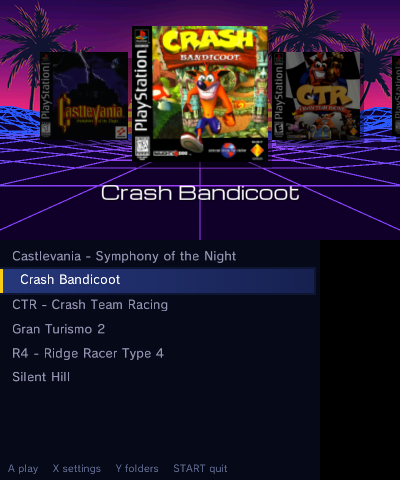
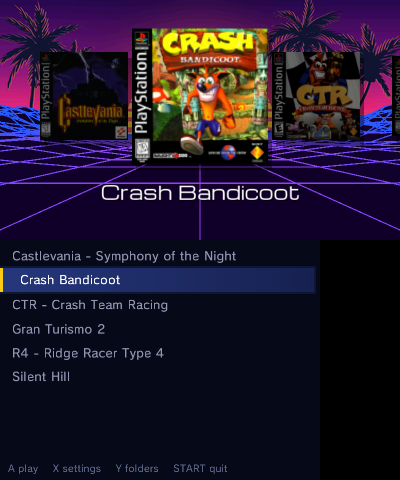
Record v0.4.0 candidate results and blocked console restore handoff

Changed region(s): [[0.0, 0.0312, 1.0, 0.4062], [0.0, 0.5312, 0.78, 0.6562]]

diff --git a/docs/v040-candidate.md b/docs/v040-candidate.md
@@ -1,0 +1,231 @@
+# v0.4.0 release candidate acceptance
+
+**Status: BLOCKED — offline and candidate checks pass; RC2 restoration failed on both consoles, so Old A2 and final installed-title verification are incomplete.** Nothing pushed,
+tagged or published. Worktree `/home/tony/.t3/worktrees/PS1_3ds/v040`, branch
+`release/v0.4.0-candidate`, based on combined2 `67c67d2` (frozen executable
+`047dded`). Evidence: `/home/tony/Development/PS1_3ds/devtools/v040/`.
+
+## Candidate contents
+
+The GPU-only combined2 base retains the scratchpad fast path, indirect lookup,
+NCLIP, G1 movie synchronization, shared alternating-buffer border fix and opt-in
+developer recorder. The rejected nearest-SPU experiment is removed from startup,
+remote parsing, status, metadata and interpolation override code. Normal Old
+simple/New gaussian interpolation defaults remain.
+
+Settings `31a21ee` and covers `5a9c580`, `ca90e78`, `fdc670f` plus report
+`d8188a6` are integrated. Merge conflicts preserve the recorder pause entry,
+clip-safe command gate and both cover/settings remote commands. Renderer and
+half-height Software rows are deleted. Legacy Software configuration stays
+ignored. No changes to `core/` versus combined2.
+
+Centering was checked before hiding its page: gpulib computes manual
+`screen.x/y` and `hres/vres`, while `pica_picture()` selects `src_x/src_y` and
+`screen.w/h`, and the frontend scales that picture directly. The GPU gameplay
+path does not apply manual offsets; exposing the controls would promise a
+feature it does not implement. RGB24 movies use the shared CPU scanout path;
+there is no general GPU picture-centering setting in this candidate.
+
+No unfinished widescreen, GPU-stereo or HLE-compat branches are included. HLE is
+the normal BIOS configuration. Real per-object 3D falls back to depth-mesh screen
+3D until GPU stereo lands. README remains explicit about experimental GPU
+rendering, WIP status and AI assistance. QR URL and image are unchanged.
+
+## Frozen executable and footprint
+
+Version **0.4.0**, title counter **4099**, identity **release-v040-rc1-split**.
+Frozen executable source **a4d0c60**, split layout, devkitARM GCC 16.1.
+CIA/3DSX/ELF are immutable in `artifacts/`, with `SHA256SUMS` and `manifest.json`.
+
+| Section | RC2 | combined2 | Candidate | vs RC2 | vs combined2 |
+| --- | ---: | ---: | ---: | ---: | ---: |
+| `.text` bytes | 2,146,052 | 1,801,964 | 1,804,468 | −341,584 (−15.92%) | +2,504 (+0.14%) |
+
+| Artifact | SHA256 |
+| --- | --- |
[3 lines of base64/hex data omitted]
+
+## Offline gates
+
+| Gate | Verdict | Evidence |
+| --- | --- | --- |
+| CIA + 3DSX build | PASS | `build-frozen.log`, counter 4099 |
+| Frontend host controls/config/presets/reset/UI | PASS | `host.log`, `host-pictures/` |
+| Developer control/transport/updater ASan/UBSan | PASS | `dev.log` |
+| Categorized settings inventory/drawing/scope/reset + rewind safety | PASS | `settings.log`, `settings-pictures/` |
+| GPU-only config migration | PASS | `config.log` |
+| Cover lifecycle/PNG decoder ASan/UBSan | PASS | `covers.log` |
+| Recorder codec/input/checkpoint/corruption sanitizers | PASS | `codec.log` |
+| Six gameplay states × 600 frames vs combined2 | PASS | `states-identity.json` |
+| 31 real-BIOS cold boots × 1,200 frames vs combined2 | PASS | `boots-identity.json` |
+| 31 HLE cold boots × 1,200 frames vs combined2 | PASS | `hle-identity.json` |
+| Recorder capture + two simulator replays | PASS | `replay/results.json`, `replay/` |
+
+Every six-state comparison checks 600 per-frame draw hashes, ten guest
+RAM/VRAM/GPR/CP2/PC/cycle checkpoints and all 4,456,448 serialized bytes.
+Boots check the same complete timelines and final serialization, with twenty
+checkpoints per game. HLE boots explicitly select HLE and use isolated empty
+BIOS directories; real-BIOS logs identify the reference BIOS. These are identity
+gates against combined2, not claims of universal game compatibility.
+
+The shared ROM directory grew from 31 to 47 games during other work. All 47
+candidate real-BIOS and HLE runs completed. `boot-inventory.json` lists the 16
+additional games without a combined2 oracle; only the exact original 31-game
+subset is counted as an identity PASS. Original complete logs/results are
+retained, with reference subsets in `boots/reference31` and `hle/reference31`.
+The initial comparator correctly rejected unequal game sets; no emulation
+mismatch was suppressed. Shared simulator sources/core copies are untouched.
+
+The scripted recorder captured 600 frames/10 checkpoints and passed two replays
+with zero divergence. Console-to-simulator replay portability is not promised;
+the known archived console clip is tested on its originating console separately.
+
+## Hardware procedure and current state
+
+Each session starts only under its exclusive `lock.old` / `lock.new`, with no
+UNAVAILABLE marker, build `release-v031-rc2-split`, library mode and inactive
+benchmark. `tools/v040/session.py` retains the lock across actions, never sends
+HOME/reboot/power/FTP/InputRedirection, and never retries an uncertain install.
+Install requests allow 600 seconds. Token values are never logged.
+
+Old: RC2 A1 → candidate six-game off / six-game auto + pictures, covers, recorder
+and spare-slot-9 save/load → RC2 A2. If all acceptance gates pass, reinstall the
+candidate as the new baseline. Otherwise leave RC2. New: GPU six games off and
+auto, pictures/covers/settings and spare-slot 9. Old slot 2, New slot 0 and SotN
+slot 8 remain load-only.
+
+`batches/` contains exact requests; raw histories and results live in
+`hardware/{old,new}/acceptance-1/`. The first Old A1 batch was rejected before
+loading because RC2 does not recognize `record=off`; corrected `A1valid` and A2
+omit that candidate-only switch. The rejected batch is retained and excluded
+from measurements.
+
+
+## Candidate hardware measurements
+
+Measurements taken 2026-10-19 UTC (2026-10-18 local). GPU, clock 57,
+PMU 0/2, 10-second warmup and 15 one-second samples per ordinary run.
+Old slot 2 / New slot 0 were only read. NTR was not explicitly unloaded;
+retained observer snapshots report hours without packets. These are specific
+saved scenes, not whole-game speed or compatibility claims.
+
+| Game | Old off FPS | Old auto FPS / speed | New off FPS | New auto FPS / speed |
+| --- | ---: | ---: | ---: | ---: |
+| Crash Bandicoot | 52.998 | 60.029 / 100.05% | 59.995 | 59.991 / 99.98% |
+| CTR | 37.357 | 49.924 / 83.21% | 59.979 | 59.983 / 99.97% |
+| Gran Turismo 2 | 34.440 | 47.403 / 79.00% | 59.997 | 60.007 / 100.01% |
+| Silent Hill | 42.048 | 60.000 / 100.00% | 60.003 | 59.988 / 99.98% |
+| Ridge Racer Type 4 | 60.000 | 59.995 / 99.99% | 59.999 | 60.013 / 100.02% |
+| Symphony of the Night | 57.794 | 60.001 / 100.00% | 60.000 | 60.000 / 100.00% |
+
+New performance gate: **PASS**, all twelve runs 59.98–60.01 FPS. All 24
+candidate ordinary runs have zero near-black one-second probes. All off/auto
+gameplay screenshots were reviewed; they are coherent, with existing GPU
+limitations. These sparse captures do not establish absence of transient flicker.
+Crash's purple Wumpa idle animation in a capture is known authored behavior.
+
+## Old comparison: provisional, bracket incomplete
+
+| Game | RC2 A1 FPS | combined2 FPS | Candidate FPS | Raw vs combined2 | RC2 A2 |
+| --- | ---: | ---: | ---: | ---: | --- |
+| Crash Bandicoot | 50.520 | 51.188 | 52.998 | +3.54% | NOT RUN |
+| CTR | 32.134 | 36.455 | 37.357 | +2.47% | NOT RUN |
+| Gran Turismo 2 | 32.188 | 33.907 | 34.440 | +1.57% | NOT RUN |
+| Silent Hill | 39.119 | 41.946 | 42.048 | +0.24% | NOT RUN |
+
+The raw comparison meets the no-more-than-1% regression threshold in all four
+scenes, but **the required RC2 A1 → candidate → RC2 A2 gate is NOT PASSED**.
+A2 never ran because the attempted exact RC2 restore failed. Without A2, bracket
+drift and RC2-normalized gains cannot be calculated. `hardware-verdict.json`
+records this as incomplete, never a successful final gate.
+
+## Behavior, UI, saves and recorder
+
+| Check | Old | New | Evidence |
+| --- | --- | --- | --- |
+| Library box art in remote mode | PASS | PASS | `covers-crash-library.png`, New `candidate-idle-reviewed-screens.png` |
+| Fresh HTTPS cover fetch | PASS | PASS | `covers-crash-complete.json`: 1 attempt, 1 download, curl 0, HTTP 200, no failures |
+| Settings home/categories and scope | PASS | PASS | `settings-global-*`, `settings-game-home.png` |
+| Reset confirmation, canceled | PASS (game) | PASS (game + global) | `settings-*-reset-confirm.png`; no settings reset |
+| Spare slot 9 save/load | PASS | PASS | `save9-write/load.json`, browser and resumed-game PNGs |
+| Recorder determinism | PASS, archived clip1 twice | PASS, new 120-frame capture + twice | `recorder-replays/*/results.tsv`, New `recorder-complete.json` |
+
+Old replay: 900 frames, 15 checkpoints, zero divergence in each of two runs.
+New capture/replays: 120 frames, 2 checkpoints, zero divergence in both replays.
+No gameplay input was injected. Protected Old 2, New 0 and SotN 8 were never
+written. Save/load used Crash slot 9. No global/per-game reset was confirmed.
+New `default-gpu-crash.json` loaded without a renderer parameter successfully;
+GPU is the only linked path. Settings/covers navigation screenshots were viewed
+before each dependent key. Commands acknowledge before rendering: early stale
+captures are retained; `*-settled` and subsequent reviewed captures supersede them.
+
+## Installation failure and exact handoff
+
+Both forward candidate installs succeeded, and their replies validate the exact
+CIA SHA below. The Old A2 transition and subsequent New fallback restore
+each returned:
+
+> `CIA install read/write failed; use FBI recovery`
+
+The error arises in the AM install read/write loop, after download/hash/title
+validation. The updater cancels the failed install. The reply does not include a
+low-level Result code, so the cause and final installed-title integrity are
+**unknown**. Do not assume a downgrade/counter issue or a Wi-Fi fault. No retry,
+HOME/reboot/power/FTP/InputRedirection or post-marker contact was performed.
+Both session drivers exited and released their locks, with markers retained.
+
+| Console | Last verified running identity | Session | Last verified mode | Final installed title |
+| --- | --- | --- | --- | --- |
+| Old | `release-v040-rc1-split` / 0.4.0 | `b4f575cc26` | idle library, no benchmark | UNVERIFIED after failed RC2 write |
+| New | `release-v040-rc1-split` / 0.4.0 | `bd7d47c300` | idle library, no benchmark | UNVERIFIED after failed RC2 write |
+
+Last successfully installed candidate CIA SHA256:
[1 lines of base64/hex data omitted]
+Attempted exact RC2 CIA SHA256:
[1 lines of base64/hex data omitted]
+
+Evidence: Old `A2-restore-before.json`, `A2-restore-before-screens.png`,
+`STOP-1792386048.json`; New `acceptance-blocked-restore-before.json`, its
+screens PNG and STOP JSON; both `requests.jsonl`. Failed update replies are
+captured in STOP errors because the client raises on an error response.
+
+### Baseline handoff notes for future workers
+
+- **NOT a new accepted hardware baseline.** Do not treat candidate results as
+  completion of the required Old bracket.
+- `devtools/fastloop/OLD_UNAVAILABLE` and `NEW_UNAVAILABLE` exist. No console
+  contact until the maintainer recovers the titles and explicitly clears
+  the markers. No automatic reinstall attempts.
+- Both locks are released. Last running app and SHA are listed above; final
+  installed title cannot be asserted after the failed writes.
+- maintainer recovery must establish a working exact RC2 (FBI recovery is
+  the updater's stated route), verify remote-idle library, then finish the Old
+  bracket and final installation decision under exclusive locks. Do not alter
+  protected save slots.
+- Candidate artifacts are frozen at executable source `a4d0c60`; later commits
+  only add tooling/docs/screenshots. Keep these binaries for any continuation.
+
+## Deliverables and remaining work
+
+`devtools/v040/artifacts/` contains read-only CIA/3DSX/ELF, manifest and SHA256SUMS.
+`devtools/v040/index.html` is the real-console screenshot gallery, with hashed
+`screenshots-manifest.json`. Evidence and batch files stay outside tracked source.
+README now uses measured candidate GPU numbers, updated real settings/library
+captures, HLE guidance and explicit real-3D fallback. Draft release notes are
+`docs/release-notes-v0.4.0.md`; QR is unchanged. No public action occurred.
+
+Remaining required work: console recovery, RC2 A2, bracket verdict, final candidate
+or RC2 install decision and verified final remote-idle handoff. This candidate is
+**not release-approved** while those remain incomplete.
+
+## Local integration commits
+
+- `a4d0c60`: frozen executable, approved settings/covers integration cleanup,
+  nearest-SPU removal, GPU-only menu and 0.4.0 identity/counter.
+- `7766c78`: exclusive interactive hardware acceptance driver.
+- `951f077`: initial release draft and GPU-only user guidance.
+- This report commit: final measured README, real captures, release draft and
+  explicit blocked acceptance/recovery handoff. Earlier settings/cover
+  cherry-picks remain separate commits on the candidate branch.

diff --git a/README.md b/README.md
@@ -6,7 +6,7 @@ This project is a work in progress.
 
 **The first PS1 emulator for the 3DS that draws on the 3DS GPU.** On an Old 3DS
 it runs games up to twice as fast as the PCSX-ReARMed software renderer used by
-other 3DS PS1 emulators (Crash Bandicoot: 49.1 FPS on GPU vs 22.8 on Software),
+other 3DS PS1 emulators (historical v0.3.1 Crash Bandicoot: 49.1 FPS on GPU vs 22.8 on Software),
 and automatic frameskip brings games like Crash Bandicoot, Ridge Racer Type 4
 and Symphony of the Night to full game speed on the original 3DS.
 
@@ -47,38 +47,31 @@ and Symphony of the Night to full game speed on the original 3DS.
 
 ## Performance
 
-v0.3.1, measured on 2026-10-18 in the supplied benchmark scenes. Old 3DS had
-BootNTR loaded with a low quality 30 / 128 KiB/s stream; New 3DS had no NTR.
+v0.4.0 candidate, measured on 2026-10-19 in six saved benchmark scenes,
+using the GPU renderer on both consoles. Each run used a 10-second warmup and
+15-second sample, clock 57, Old slot 2 / New slot 0. The consoles normally use
+HLE BIOS; these gameplay tests load existing save states. These are scene
+measurements, not whole-game compatibility guarantees. NTR was not explicitly
+unloaded; the host observer reported no recent stream packets.
+
 Frameskip-off numbers are emulated frames per second. Full speed is 60 FPS,
 or 100% game speed; automatic frameskip shows fewer pictures to improve speed.
 
-**Historical v0.3.1 measurements:** Software columns describe the previous release;
-Software rendering is no longer included.
+| Game | Old, off (FPS) | Old, auto (game speed) | New, off (FPS) | New, auto (game speed) |
+|---|---:|---:|---:|---:|
+| Crash Bandicoot | 53.0 | 100.0% | 60.0 | 100.0% |
+| Crash Team Racing | 37.4 | 83.2% | 60.0 | 100.0% |
+| Gran Turismo 2 | 34.4 | 79.0% | 60.0 | 100.0% |
+| Silent Hill | 42.0 | 100.0% | 60.0 | 100.0% |
+| Ridge Racer Type 4 | 60.0 | 100.0% | 60.0 | 100.0% |
+| Castlevania: Symphony of the Night | 57.8 | 100.0% | 60.0 | 100.0% |
 
-| Game | Old GPU, off (FPS) | Old GPU, auto (game speed) | New Software, off (FPS) |
-|---|---:|---:|---:|
-| Ridge Racer Type 4 | 58.5 | 100.0% | 60.0 |
-| Castlevania: Symphony of the Night | 54.7 | 100.0% | 60.0 |
-| Crash Bandicoot | 49.1 | 100.0% | 60.0 |
-| Silent Hill | 38.1 | 85.6% | 60.0 |
-| Crash Team Racing | 31.0 | 65.9% | 60.0 |
-| Gran Turismo 2 | 31.1 | 68.5% | 60.0 |
+Automatic frameskip reaches full game speed in the tested Crash, Silent Hill,
+R4 and Symphony of the Night scenes on Old 3DS. CTR and GT2 still run slowly.
+All six New 3DS scenes hold about 60 FPS with frameskip off and auto.
 
-New 3DS Software also averaged 100% with automatic frameskip in all six scenes.
-The previous Symphony of the Night **Software** preset on Old 3DS measured 51.8 FPS
-with frameskip off and 100.0% game speed with auto. Its New 3DS GPU spot check
-averaged 60.0 FPS off and 100.0% with auto.
-
-On the Old 3DS, automatic frameskip brings lighter games such as Crash
-Bandicoot, Ridge Racer Type 4 and Symphony of the Night to full game speed by
-showing fewer pictures. The heaviest 3D games still run below full speed.
-Old 3DS audio underruns were zero with automatic frameskip in these samples;
-forced frameskip off still underruns in some slow scenes.
-The GPU renderer also looks sharper on the Old 3DS: it draws every line, where
-the software renderer uses half-height 3D there to save time.
-
-Details of how these were measured: [hardware check](docs/release-check-v0.3.1.md).
-Changes: [v0.3.1 release notes](docs/release-notes-v0.3.1.md).
+Measurements, correctness gates and limitations: [candidate acceptance](docs/v040-candidate.md).
+Changes: [v0.4.0 draft release notes](docs/release-notes-v0.4.0.md).
 
 ## Presets and settings
 

diff --git a/docs/release-notes-v0.4.0.md b/docs/release-notes-v0.4.0.md
@@ -1,6 +1,8 @@
 # PSX3D v0.4.0 — draft release notes
 
-Local candidate only. No tag or release has been published.
+Local candidate only. No tag or release has been published. Acceptance is blocked:
+RC2 self-restoration failed on both consoles; Old A2 and final installed-title
+verification remain incomplete. See the acceptance report before any release.
 
 PSX3D now uses the experimental 3DS GPU renderer on both Old and New 3DS.
 Software rendering and its settings have been removed. GPU drawing errors and
@@ -16,6 +18,12 @@ missing effects remain; this is still a work in progress.
 - Movie scanout synchronization and alternating-buffer border clearing fixes.
 - Vendored, pruned PCSX-ReARMed core; no submodule or patch regeneration step.
 - Opt-in developer input recording and deterministic replay tools.
+
+Measured candidate scenes: Old Crash 53.0 FPS, CTR 37.4, GT2 34.4, Silent Hill
+42.0, R4 60.0 and SotN 57.8 with frameskip off. Auto reaches full game speed
+in Crash, Silent Hill, R4 and SotN; CTR is 83.2% and GT2 79.0%. All six New
+3DS scenes hold about 60 FPS off and auto. These are saved benchmark scenes,
+not whole-game guarantees. The required final RC2 bracket is incomplete.
 
 The built-in HLE BIOS is the normal configuration; no separate BIOS file is
 required. A real BIOS remains optional and may help compatibility. Real per-object
